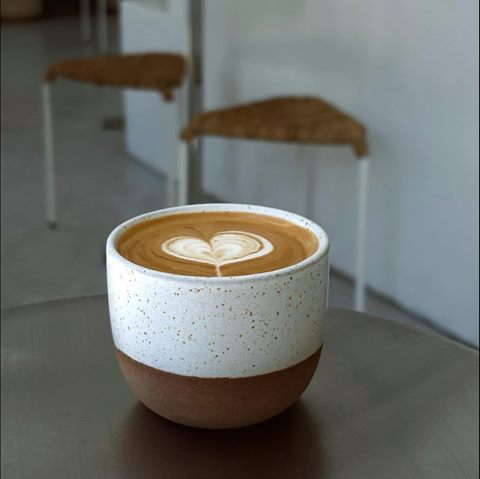
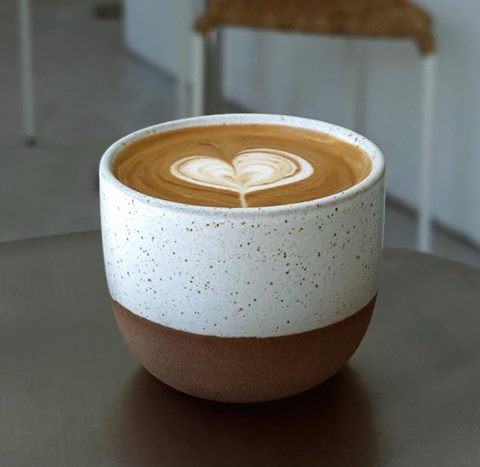
Center the latte cup in the cafe gallery
Crop away the empty space above the cup so it sits centred in its
gallery tile at every screen size.

diff --git a/index.html b/index.html
@@ -543,7 +543,7 @@
         <figure class="g g-anchor reveal"><img src="assets/img/gallery/window-table-rattan-960.jpg" srcset="assets/img/gallery/window-table-rattan-480.jpg 480w, assets/img/gallery/window-table-rattan-960.jpg 960w" sizes="(min-width: 900px) 40vw, 92vw" width="960" height="1213" loading="lazy" decoding="async" alt="A sunny window table with rattan chairs and a garden view inside Zayn Coffee"></figure>
         <figure class="g g-arch reveal"><img src="assets/img/gallery/window-bar-cacti-480.jpg" srcset="assets/img/gallery/window-bar-cacti-480.jpg 480w, assets/img/gallery/window-bar-cacti-960.jpg 960w" sizes="(min-width: 900px) 30vw, 46vw" width="480" height="633" loading="lazy" decoding="async" alt="Window bar seating with an arched mirror and cacti outside at Zayn Coffee"></figure>
         <figure class="g g-sign reveal"><img src="assets/img/gallery/need-more-coffee-wall-480.jpg" srcset="assets/img/gallery/need-more-coffee-wall-480.jpg 480w, assets/img/gallery/need-more-coffee-wall-960.jpg 960w" sizes="(min-width: 900px) 22vw, 46vw" width="480" height="671" loading="lazy" decoding="async" alt="An “I need more coffee” wall graphic in the hallway at Zayn Coffee"></figure>
-        <figure class="g g-cup reveal"><img src="assets/img/gallery/latte-art-cup-480.jpg" srcset="assets/img/gallery/latte-art-cup-480.jpg 480w, assets/img/gallery/latte-art-cup-960.jpg 960w" sizes="(min-width: 900px) 22vw, 46vw" width="480" height="479" loading="lazy" decoding="async" alt="A latte with heart latte art at Zayn Coffee"></figure>
+        <figure class="g g-cup reveal"><img src="assets/img/gallery/latte-art-cup-480.jpg" srcset="assets/img/gallery/latte-art-cup-480.jpg 480w, assets/img/gallery/latte-art-cup-900.jpg 900w" sizes="(min-width: 900px) 22vw, 46vw" width="480" height="467" loading="lazy" decoding="async" alt="A latte with heart latte art at Zayn Coffee"></figure>
         <figure class="g g-seat reveal"><img src="assets/img/gallery/seating-life-happens-960.jpg" srcset="assets/img/gallery/seating-life-happens-480.jpg 480w, assets/img/gallery/seating-life-happens-960.jpg 960w, assets/img/gallery/seating-life-happens-1600.jpg 1600w" sizes="(min-width: 900px) 40vw, 92vw" width="960" height="1280" loading="lazy" decoding="async" alt="Bench seating and stools beneath a “Life happens, Zayn Coffee helps” wall sign"></figure>
         <figure class="g g-bar reveal"><img src="assets/img/gallery/coffee-bar-480.jpg" srcset="assets/img/gallery/coffee-bar-480.jpg 480w, assets/img/gallery/coffee-bar-960.jpg 960w" sizes="(min-width: 900px) 30vw, 46vw" width="480" height="559" loading="lazy" decoding="async" alt="The coffee bar at Zayn Coffee with grinders, stacked Zayn cups and the espresso machine"></figure>
         <figure class="g g-door reveal"><img src="assets/img/gallery/doorway-night-480.jpg" srcset="assets/img/gallery/doorway-night-480.jpg 480w, assets/img/gallery/doorway-night-960.jpg 960w" sizes="(min-width: 900px) 22vw, 46vw" width="480" height="640" loading="lazy" decoding="async" alt="The lit Zayn Coffee sign above the entrance at night"></figure>

diff --git a/css/site.css b/css/site.css
@@ -599,7 +599,7 @@ p:last-child{ margin-bottom: 0; }
 .g-sign{ grid-area: c; }
 .g-sign img{ object-position: 72% 40%; }   /* keep the wall graphic in frame */
 .g-cup{ grid-area: e; }
-.g-cup img{ object-position: 50% 55%; }
+.g-cup img{ object-position: 50% 50%; }
 .g-seat{ grid-area: f; }
 .g-seat img{ object-position: 50% 58%; }   /* sign + bench both visible */
 .g-bar{ grid-area: d; }
